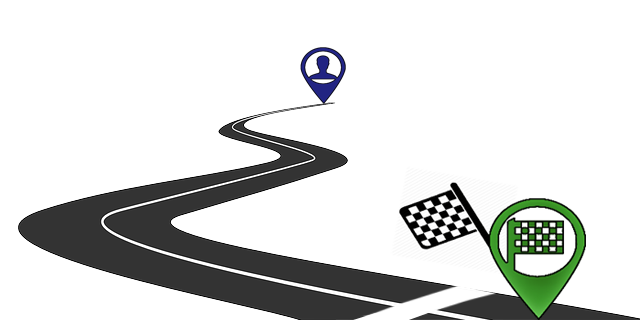
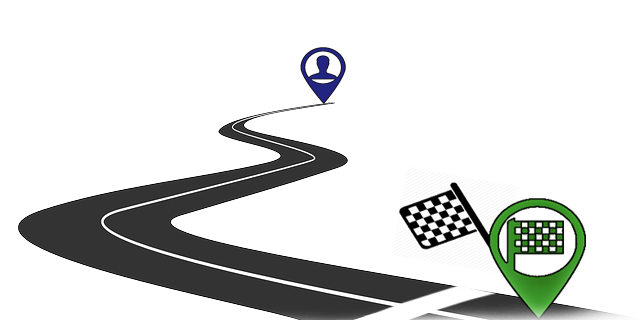
Retoque imgs viaje + texto dinámico

Changed region(s): [[0.625, 0.9375, 1.0, 1.0], [0.4375, 0.9688, 0.5625, 1.0]]

diff --git a/src/pages/cliente/cliente-viaje/cliente-viaje.html b/src/pages/cliente/cliente-viaje/cliente-viaje.html
@@ -7,9 +7,12 @@
   </div>
   <!-- MENSAJE FINAL -->
   <div class="msj_box" *ngIf="!mostrarSpinner && mostrarMsj">
-    <ion-label class="msj_final">
-      <strong>FIN DEL RECORRIDO</strong>
-      <br>¡Gracias por elegirnos!
+    <ion-label class="msj_final_1">
+      <strong>{{texto.msj_final.titulo}}</strong>
+      <br>{{texto.msj_final.subtitulo}}
+    </ion-label>
+    <ion-label class="msj_final_2">
+      <br><br><strong>{{texto.msj_final.texto_1}}</strong> {{texto.msj_final.texto_2}}
     </ion-label>
     <img src="assets/imgs/fin_recorrido.png">
   </div>
@@ -27,7 +30,7 @@
 
       <!-- DIRECCION ORIGEN-->
       <ion-item class="input_direccion">
-        <ion-label stacked>Origen</ion-label>
+        <ion-label stacked>{{texto.label.origen}}</ion-label>
         <ion-avatar item-start>
           <img src="assets/imgs/marker1.png">
         </ion-avatar>
@@ -38,7 +41,7 @@
 
       <!-- DIRECCION DESTINO-->
       <ion-item class="input_direccion">
-        <ion-label stacked>Destino</ion-label>
+        <ion-label stacked>{{texto.label.destino}}</ion-label>
         <ion-avatar item-start>
           <img src="assets/imgs/marker2.png">
         </ion-avatar>
@@ -62,7 +65,7 @@
 
   </div>
   <!-- MENSAJE INICIO -->
-  <div class="msj_box" *ngIf="!mostrarMapa">
+  <div class="msj_box" *ngIf="!mostrarSpinner && !mostrarMapa">
     <img src="assets/imgs/inicio_recorrido.png">
   </div>
 

diff --git a/src/pages/cliente/cliente-viaje/cliente-viaje.ts b/src/pages/cliente/cliente-viaje/cliente-viaje.ts
@@ -4,7 +4,7 @@ import { NavController, ToastController, NavParams, Platform } from 'ionic-angul
 import { MapaPage, PerfilPage, ClienteEncuestaPage } from '../../index-paginas';
 //clase USUARIO
 import { Usuario } from '../../../classes/usuario';
-import { Viaje } from '../../../classes/viaje';
+import { Viaje, Viaje_texto } from '../../../classes/viaje';
 //Interface MARKER
 import { Marker } from '../../../interfaces/marker';
 //SERVICIOS
@@ -40,6 +40,8 @@ export class ClienteViajePage {
   destino_marker:Marker;
   precio:number = 18; // por KM
   precio_minimo:number = 60;
+  //texto
+  texto:any = Viaje_texto;
 
   //CALLBACK function (para retornar dirección/coordenadas desde MapaPage)
   myCallbackFunction:Function;

diff --git a/src/classes/viaje.ts b/src/classes/viaje.ts
@@ -39,3 +39,22 @@ export class Viaje{
     }
 
 }
+
+//TEXTO
+
+export const Viaje_texto = {
+
+  label:{
+    origen: "Origen",
+    destino: "Destino",
+    distancia: "Distancia",
+    precio: "Precio"
+  },
+  msj_final:{
+    titulo: "FIN DEL RECORRIDO",
+    subtitulo: "¡Gracias por elegirnos!",
+    texto_1: "Encuesta disponible:",
+    texto_2: "utilice su lector QR para acceder"
+  }
+
+}

diff --git a/src/pages/cliente/cliente-viaje/cliente-viaje.scss b/src/pages/cliente/cliente-viaje/cliente-viaje.scss
@@ -40,8 +40,12 @@ page-cliente-viaje {
     margin-top: 20%;
   }
 
-  .msj_final{
+  .msj_final_1{
     font-size: 20px;
+  }
+
+  .msj_final_2{
+    font-size: 13px;
   }
 
   .spinner {
